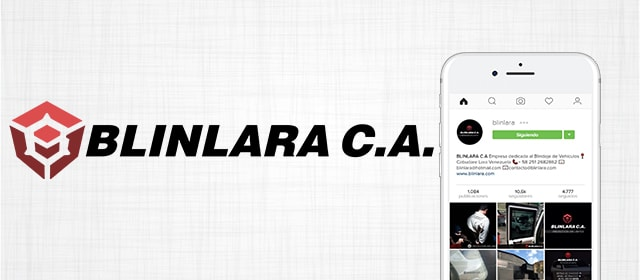
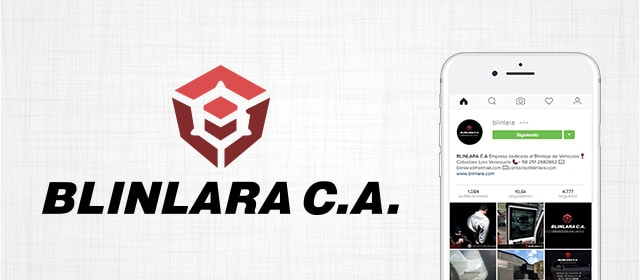
se agrego centro arco, modificado redesblinlara

Changed region(s): [[0.0, 0.2286, 0.6875, 0.7714]]

diff --git a/nosotros.html b/nosotros.html
@@ -31,7 +31,7 @@
             width: 100%;
             height: 100%;
             background: #fff;
-            z-index: 1000
+            z-index: 99999
         }
         
         #loading {
@@ -204,95 +204,95 @@
                     <span class="bold"> web utilizamos? </span>
                 </h2>
             </div>
-            <div class="row" data-aos="fade-up">
-                <h4 class=bold>LENGUAJES DE PROGRAMACIÓN</h4>
+            <div class="row">
+                <h4 class=bold data-aos="fade-up">LENGUAJES DE PROGRAMACIÓN</h4>
 
-                <div class="col-xs-6 col-sm-3 center-align">
+                <div class="col-xs-6 col-sm-3 center-align" data-aos="fade-right">
                     <span class="letra1 tecnosotros">HTML5</span>
                 </div>
-                <div class="col-xs-6 col-sm-3 center-align">
+                <div class="col-xs-6 col-sm-3 center-align" data-aos="fade-down">
                     <span class="letra1 tecnosotros">CSS3</span>
                 </div>
-                <div class="col-xs-6 col-sm-3 center-align">
+                <div class="col-xs-6 col-sm-3 center-align" data-aos="fade-down">
                     <span class="letra1 tecnosotros">JavaScript</span>
                 </div>
-                <div class="col-xs-6 col-sm-3 center-align">
+                <div class="col-xs-6 col-sm-3 center-align" data-aos="fade-left">
                     <span class="letra1 tecnosotros">PHP</span>
                 </div>
-                <div class="col-xs-6 col-sm-3 center-align">
+                <div class="col-xs-6 col-sm-3 center-align" data-aos="fade-right">
                     <span class="letra1 tecnosotros">MySQL</span>
                 </div>
-                <div class="col-xs-6 col-sm-3 center-align">
+                <div class="col-xs-6 col-sm-3 center-align" data-aos="fade-up">
                     <span class="letra1 tecnosotros">Java</span>
                 </div>
-                <div class="col-xs-6 col-sm-3 center-align">
+                <div class="col-xs-6 col-sm-3 center-align" data-aos="fade-up">
                     <span class="letra1 tecnosotros">C#</span>
                 </div>
-                <div class="col-xs-6 col-sm-3 center-align">
+                <div class="col-xs-6 col-sm-3 center-align" data-aos="fade-left">
                     <span class="letra1 tecnosotros">Objective-C</span>
                 </div>
             </div>
-            <div class="row" data-aos="fade-up">
-                <h4 class=bold>FRAMEWORKS</h4>
+            <div class="row">
+                <h4 class=bold data-aos="fade-up">FRAMEWORKS</h4>
 
-                <div class="col-xs-6 col-sm-3 center-align">
+                <div class="col-xs-6 col-sm-3 center-align" data-aos="fade-right">
                     <span class="letra1 tecnosotros">JQuery</span>
                 </div>
-                <div class="col-xs-6 col-sm-3 center-align">
+                <div class="col-xs-6 col-sm-3 center-align" data-aos="fade-down">
                     <span class="letra1 tecnosotros">Angular JS</span>
                 </div>
-                <div class="col-xs-6 col-sm-3 center-align">
+                <div class="col-xs-6 col-sm-3 center-align" data-aos="fade-down">
                     <span class="letra1 tecnosotros">NodeJS</span>
                 </div>
-                <div class="col-xs-6 col-sm-3 center-align">
+                <div class="col-xs-6 col-sm-3 center-align" data-aos="fade-left">
                     <span class="letra1 tecnosotros">Bootstrap</span>
                 </div>
-                <div class="col-xs-6 col-sm-3 center-align">
+                <div class="col-xs-6 col-sm-3 center-align" data-aos="fade-right">
                     <span class="letra1 tecnosotros">MaterializeCSS</span>
                 </div>
-                <div class="col-xs-6 col-sm-3 center-align">
+                <div class="col-xs-6 col-sm-3 center-align" data-aos="fade-up">
                     <span class="letra1 tecnosotros">Ajax</span>
                 </div>
             </div>
-            <div class="row" data-aos="fade-up">
-                <h4 class=bold>CMS</h4>
+            <div class="row">
+                <h4 class=bold data-aos="fade-up">CMS</h4>
 
-                <div class="col-xs-6 col-sm-3 center-align">
+                <div class="col-xs-6 col-sm-3 center-align" data-aos="fade-right">
                     <span class="letra1 tecnosotros">Wordpress</span>
                 </div>
-                <div class="col-xs-6 col-sm-3 center-align">
+                <div class="col-xs-6 col-sm-3 center-align" data-aos="fade-down">
                     <span class="letra1 tecnosotros">Joomla</span>
                 </div>
-                <div class="col-xs-6 col-sm-3 center-align">
+                <div class="col-xs-6 col-sm-3 center-align" data-aos="fade-down">
                     <span class="letra1 tecnosotros">Drupal</span>
                 </div>
             </div>
-            <div class="row" data-aos="fade-up">
-                <h4 class=bold>SERVICIOS</h4>
+            <div class="row">
+                <h4 class=bold data-aos="fade-up">SERVICIOS</h4>
 
-                <div class="col-xs-6 col-sm-3 center-align">
+                <div class="col-xs-6 col-sm-3 center-align" data-aos="fade-right">
                     <span class="letra1 tecnosotros">Paypal</span>
                 </div>
-                <div class="col-xs-6 col-sm-3 center-align">
+                <div class="col-xs-6 col-sm-3 center-align" data-aos="fade-down">
                     <span class="letra1 tecnosotros">MercadoPago</span>
                 </div>
-                <div class="col-xs-6 col-sm-3 center-align">
+                <div class="col-xs-6 col-sm-3 center-align" data-aos="fade-down">
                     <span class="letra1 tecnosotros">Social APIs</span>
                 </div>
             </div>
-            <div class="row" data-aos="fade-up">
-                <h4 class=bold>HERRAMIENTAS</h4>
+            <div class="row">
+                <h4 class=bold data-aos="fade-up">HERRAMIENTAS</h4>
 
-                <div class="col-xs-6 col-sm-3 center-align">
+                <div class="col-xs-6 col-sm-3 center-align" data-aos="fade-right">
                     <span class="letra1 tecnosotros">Git</span>
                 </div>
-                <div class="col-xs-6 col-sm-3 center-align">
+                <div class="col-xs-6 col-sm-3 center-align" data-aos="fade-down">
                     <span class="letra1 tecnosotros">Hootsuite</span>
                 </div>
-                <div class="col-xs-6 col-sm-3 center-align">
+                <div class="col-xs-6 col-sm-3 center-align" data-aos="fade-down">
                     <span class="letra1 tecnosotros">Adobe Suite</span>
                 </div>
-                <div class="col-xs-6 col-sm-3 center-align">
+                <div class="col-xs-6 col-sm-3 center-align" data-aos="fade-up">
                     <span class="letra1 tecnosotros">FileZilla</span>
                 </div>
             </div>

diff --git a/index.html b/index.html
@@ -48,7 +48,7 @@
 
     <link rel="stylesheet" href="https://cdnjs.cloudflare.com/ajax/libs/aos/2.1.1/aos.css" />
     <link rel=stylesheet type=text/css href=css/bootstrap.min.css />
-    <link rel=stylesheet type=text/css href=https://cdnjs.cloudflare.com/ajax/libs/materialize/0.97.8/css/materialize.min.css />
+    <link rel=stylesheet type=text/css href=https://cdnjs.cloudflare.com/ajax/libs/materialize/0.98.0/css/materialize.min.css />
     <link rel="stylesheet" href="https://cdnjs.cloudflare.com/ajax/libs/font-awesome/4.7.0/css/font-awesome.min.css" />
     <link rel=stylesheet type=text/css href=css/style.css />
     <script type=text/javascript src=https://code.jquery.com/jquery-2.1.1.min.js></script>
@@ -60,7 +60,7 @@
             width: 100%;
             height: 100%;
             background: #fff;
-            z-index: 1000
+            z-index: 99999
         }
         
         #loading {
@@ -198,7 +198,7 @@
                 <li>
                     <img src="img/bbanner2.jpg"> <!-- random image -->
                     <div class="caption right-align">
-                        <h2 class="white-text letra3 carouselfontsize">LA AGENCIA PARA UN<br>MUNDO CONECTADO</h2>
+                        <h2 class="white-text letra3 carouselfontsize">TU AGENCIA PARA UN<br>MUNDO ONLINE</h2>
                     </div>
                 </li>
             </ul>
@@ -363,7 +363,7 @@
                     <a class="filter color1" data-filter=".otros">Otros</a>
                 </h5>
             </form>
-            <div class="row" id="Container">
+            <div class="row" id="Container" data-aos="fade-up">
                 <div class="col-xs-12 col-sm-4 paddingbot15 paddingtop15 mix img" >
                     <div class="grid cs-style-3">
                         <figure>
@@ -446,7 +446,7 @@
                         <figure>
                             <img src="img/redeslubripiscis.jpg" class="responsive-img">
                             <figcaption>
-                                <h5>LubriPiscis</h5>
+                                <h5>LubriPiscis Express</h5>
                                 <span>Social Media</span>
                             </figcaption>
                         </figure>
@@ -499,6 +499,28 @@
                 <div class="col-xs-12 col-sm-4 paddingbot15 paddingtop15 mix web" >
                     <div class="grid cs-style-3">
                         <figure>
+                            <img src="img/pwphotocreativa.jpg" class="responsive-img">
+                            <figcaption>
+                                <h5>Photocreativa</h5>
+                                <span>Página Web</span>
+                            </figcaption>
+                        </figure>
+                    </div>
+                </div>
+                <div class="col-xs-12 col-sm-4 paddingbot15 paddingtop15 mix redes" >
+                    <div class="grid cs-style-3">
+                        <figure>
+                            <img src="img/redesarco.jpg" class="responsive-img">
+                            <figcaption>
+                                <h5>Arco Centro Preventivo Dental</h5>
+                                <span>Social Media</span>
+                            </figcaption>
+                        </figure>
+                    </div>
+                </div>
+                <div class="col-xs-12 col-sm-4 paddingbot15 paddingtop15 mix web" >
+                    <div class="grid cs-style-3">
+                        <figure>
                             <img src="img/pwcumbres.jpg" class="responsive-img">
                             <figcaption>
                                 <h5>Inversiones Las Cumbres</h5>
@@ -521,9 +543,9 @@
                 <div class="col-xs-12 col-sm-4 paddingbot15 paddingtop15 mix web" >
                     <div class="grid cs-style-3">
                         <figure>
-                            <img src="img/pwphotocreativa.jpg" class="responsive-img">
+                            <img src="img/pwelec.jpg" class="responsive-img">
                             <figcaption>
-                                <h5>Photocreativa</h5>
+                                <h5>Industria Electrogalvánica</h5>
                                 <span>Página Web</span>
                             </figcaption>
                         </figure>
@@ -536,17 +558,6 @@
                             <figcaption>
                                 <h5>ER Motors C.A.</h5>
                                 <span>Imagen Corporativa</span>
-                            </figcaption>
-                        </figure>
-                    </div>
-                </div>
-                <div class="col-xs-12 col-sm-4 paddingbot15 paddingtop15 mix web" >
-                    <div class="grid cs-style-3">
-                        <figure>
-                            <img src="img/pwelec.jpg" class="responsive-img">
-                            <figcaption>
-                                <h5>Industria Electrogalvánica</h5>
-                                <span>Página Web</span>
                             </figcaption>
                         </figure>
                     </div>
@@ -567,7 +578,7 @@
                         <figure>
                             <img src="img/imglubripiscis.jpg" class="responsive-img">
                             <figcaption>
-                                <h5>LubriPiscis C.A.</h5>
+                                <h5>LubriPiscis Express</h5>
                                 <span>Imagen Corporativa</span>
                             </figcaption>
                         </figure>
@@ -781,7 +792,7 @@
             </div>
         </div>
     </footer>
-    <script src=https://cdnjs.cloudflare.com/ajax/libs/materialize/0.97.8/js/materialize.min.js></script>
+    <script src=https://cdnjs.cloudflare.com/ajax/libs/materialize/0.98.0/js/materialize.min.js></script>
     <script src=https://cdnjs.cloudflare.com/ajax/libs/mixitup/2.1.11/jquery.mixitup.min.js></script>
     <script src=http://tseoc.co.uk/chris/jquery.mixitup-pagination.min.js></script>
     <script src='js/elevator.min.js'></script>

diff --git a/portafolio.html b/portafolio.html
@@ -32,7 +32,7 @@
             width: 100%;
             height: 100%;
             background: #fff;
-            z-index: 1000
+            z-index: 99999
         }
         
         #loading {
@@ -180,7 +180,7 @@
                     <a class="filter color1" data-filter=".otros">Otros</a>
                 </h5>
             </form>
-            <div class="row" id="Container">
+            <div class="row" id="Container" data-aos="fade-up">
                 <div class="col-xs-12 col-sm-4 paddingbot15 paddingtop15 mix img" >
                     <div class="grid cs-style-3">
                         <figure>
@@ -263,7 +263,7 @@
                         <figure>
                             <img src="img/redeslubripiscis.jpg" class="responsive-img">
                             <figcaption>
-                                <h5>LubriPiscis</h5>
+                                <h5>LubriPiscis Express</h5>
                                 <span>Social Media</span>
                             </figcaption>
                         </figure>
@@ -316,6 +316,28 @@
                 <div class="col-xs-12 col-sm-4 paddingbot15 paddingtop15 mix web" >
                     <div class="grid cs-style-3">
                         <figure>
+                            <img src="img/pwphotocreativa.jpg" class="responsive-img">
+                            <figcaption>
+                                <h5>Photocreativa</h5>
+                                <span>Página Web</span>
+                            </figcaption>
+                        </figure>
+                    </div>
+                </div>
+                <div class="col-xs-12 col-sm-4 paddingbot15 paddingtop15 mix redes" >
+                    <div class="grid cs-style-3">
+                        <figure>
+                            <img src="img/redesarco.jpg" class="responsive-img">
+                            <figcaption>
+                                <h5>Arco Centro Preventivo Dental</h5>
+                                <span>Social Media</span>
+                            </figcaption>
+                        </figure>
+                    </div>
+                </div>
+                <div class="col-xs-12 col-sm-4 paddingbot15 paddingtop15 mix web" >
+                    <div class="grid cs-style-3">
+                        <figure>
                             <img src="img/pwcumbres.jpg" class="responsive-img">
                             <figcaption>
                                 <h5>Inversiones Las Cumbres</h5>
@@ -338,9 +360,9 @@
                 <div class="col-xs-12 col-sm-4 paddingbot15 paddingtop15 mix web" >
                     <div class="grid cs-style-3">
                         <figure>
-                            <img src="img/pwphotocreativa.jpg" class="responsive-img">
+                            <img src="img/pwelec.jpg" class="responsive-img">
                             <figcaption>
-                                <h5>Photocreativa</h5>
+                                <h5>Industria Electrogalvánica</h5>
                                 <span>Página Web</span>
                             </figcaption>
                         </figure>
@@ -353,17 +375,6 @@
                             <figcaption>
                                 <h5>ER Motors C.A.</h5>
                                 <span>Imagen Corporativa</span>
-                            </figcaption>
-                        </figure>
-                    </div>
-                </div>
-                <div class="col-xs-12 col-sm-4 paddingbot15 paddingtop15 mix web" >
-                    <div class="grid cs-style-3">
-                        <figure>
-                            <img src="img/pwelec.jpg" class="responsive-img">
-                            <figcaption>
-                                <h5>Industria Electrogalvánica</h5>
-                                <span>Página Web</span>
                             </figcaption>
                         </figure>
                     </div>
@@ -384,7 +395,7 @@
                         <figure>
                             <img src="img/imglubripiscis.jpg" class="responsive-img">
                             <figcaption>
-                                <h5>LubriPiscis C.A.</h5>
+                                <h5>LubriPiscis Express</h5>
                                 <span>Imagen Corporativa</span>
                             </figcaption>
                         </figure>

diff --git a/contacto.html b/contacto.html
@@ -30,7 +30,7 @@
             width: 100%;
             height: 100%;
             background: #fff;
-            z-index: 1000
+            z-index: 99999
         }
         
         #loading {

diff --git a/pregfrec.html b/pregfrec.html
@@ -30,7 +30,7 @@
             width: 100%;
             height: 100%;
             background: #fff;
-            z-index: 1000
+            z-index: 99999
         }
         
         #loading {

diff --git a/servicios.html b/servicios.html
@@ -31,7 +31,7 @@
             width: 100%;
             height: 100%;
             background: #fff;
-            z-index: 1000
+            z-index: 99999
         }
         
         #loading {
